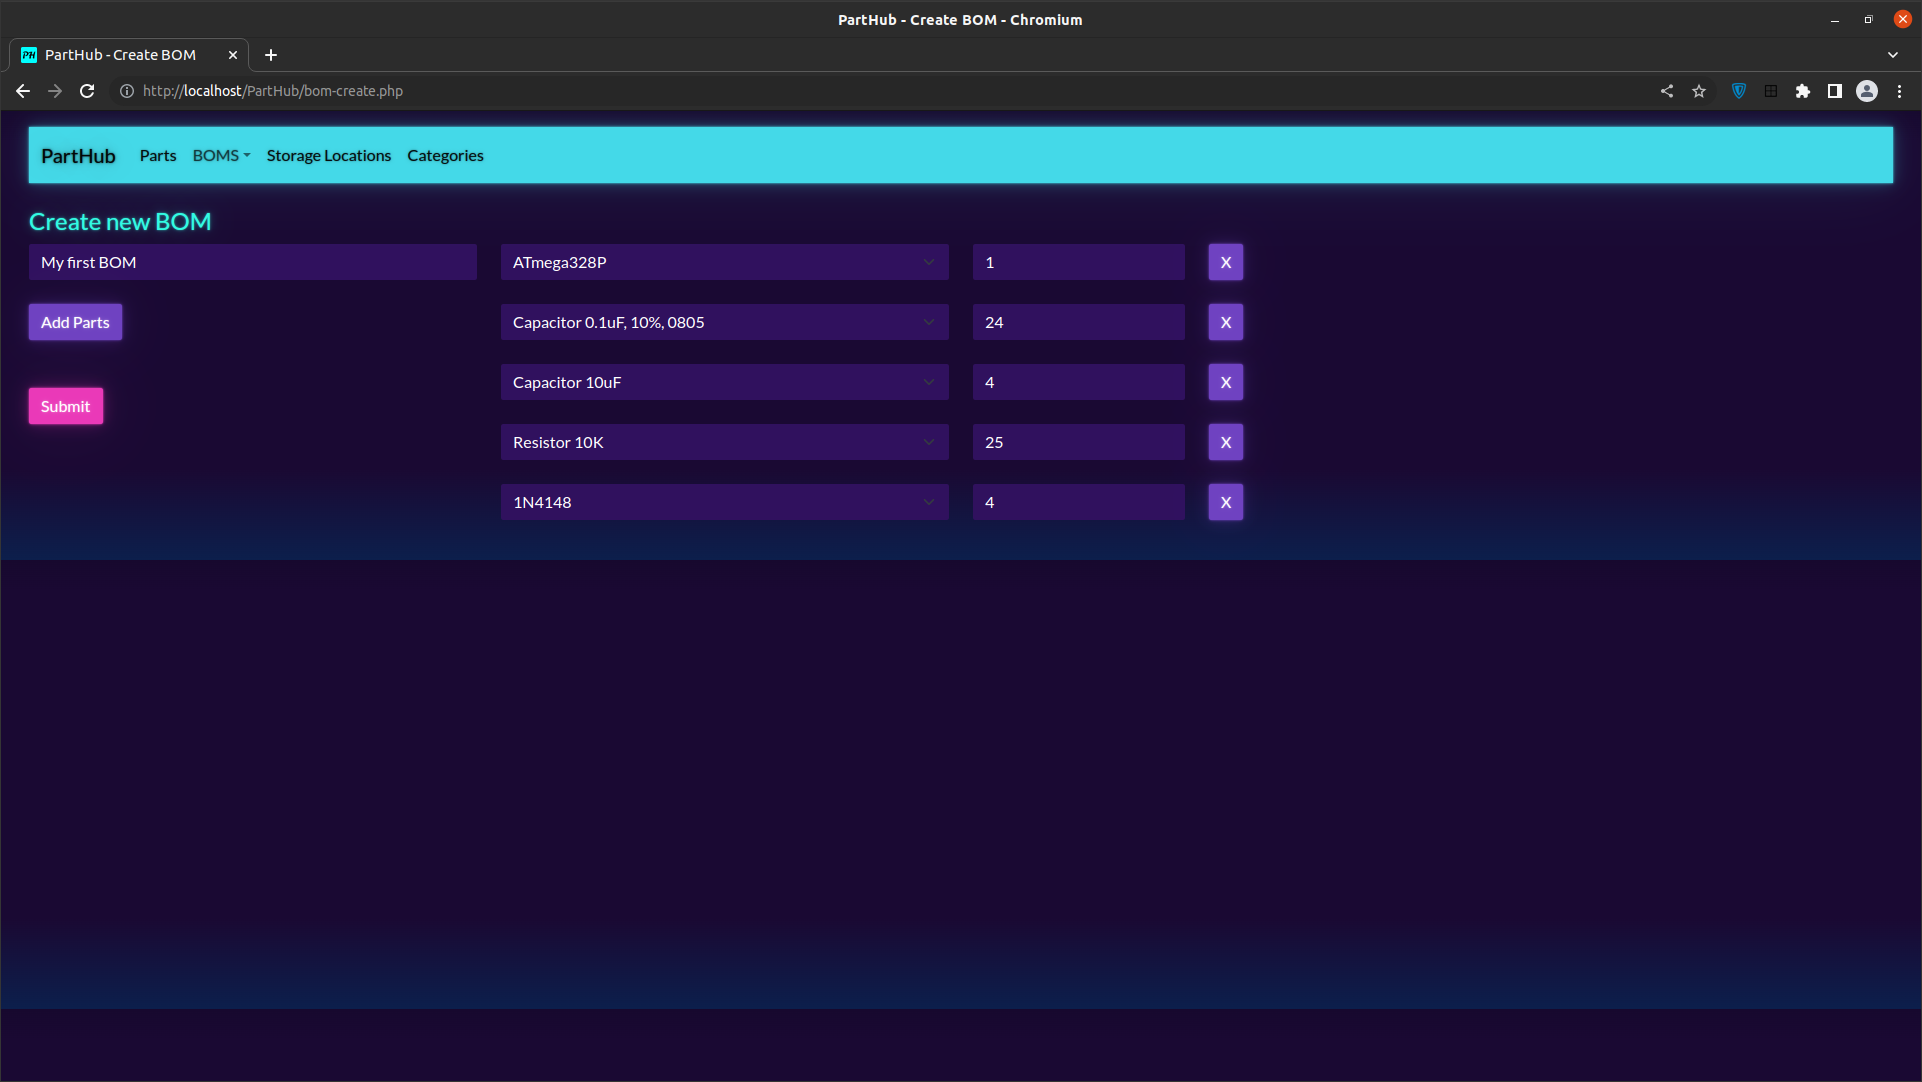
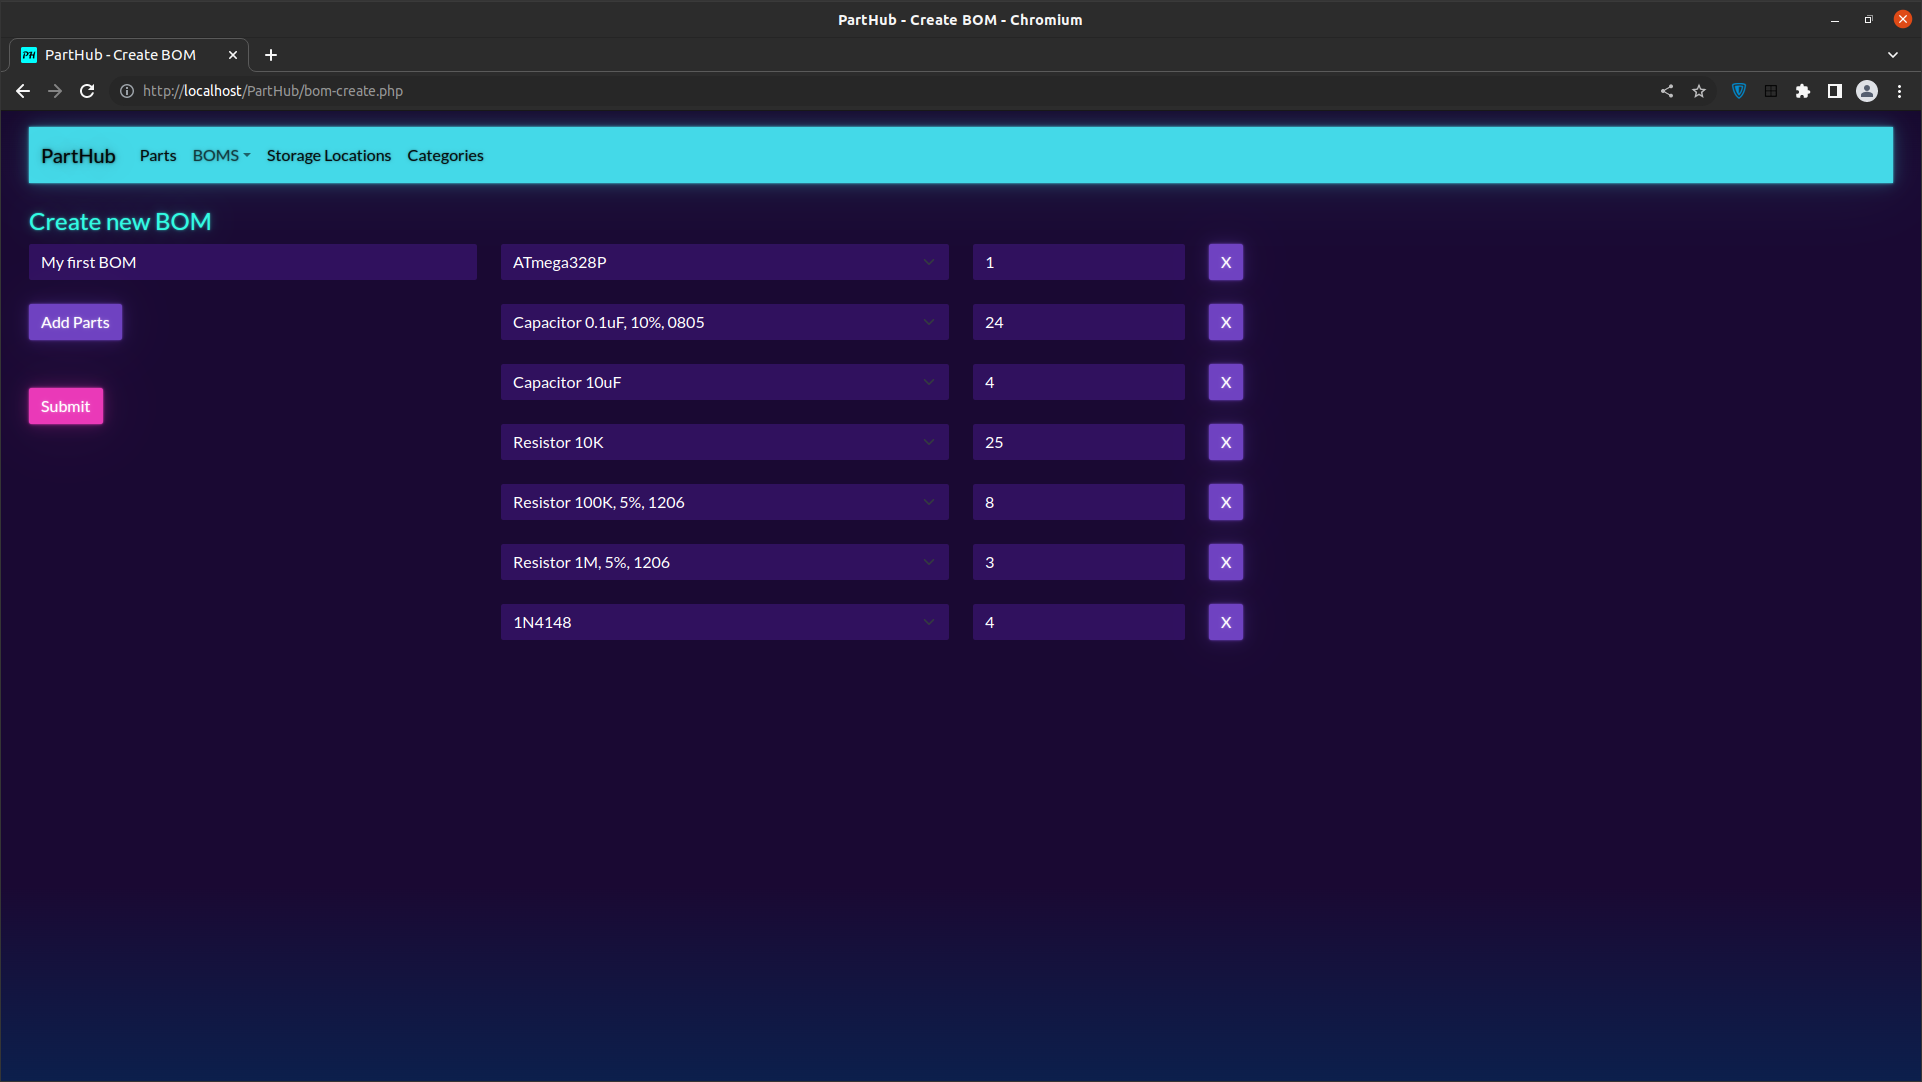
Fixed bug in viewport and updated screenshots

Changed region(s): [[0.2497, 0.4575, 0.6556, 0.61], [0.0, 0.976, 0.999, 1.0]]

diff --git a/head.html b/head.html
@@ -24,4 +24,4 @@
     <script src="https://code.jquery.com/jquery-3.6.0.min.js"></script>
 
   </head>
-  <body class="p-3 m-0 border-0">
+  <body class="p-3 m-0 border-0" style="min-height: 100vh;">

diff --git a/locations.php b/locations.php
@@ -1,0 +1,20 @@
+<?php
+  $title = 'Parts';
+  require_once('head.html');
+  include 'config/credentials.php'; 
+  include 'inline-processing.php';
+  include 'lib/SQL.php';
+  include 'lib/forms.php';
+  $table_name = "location_names";
+  
+?>
+
+<style>
+    .fixed-bottom {
+  height: 100%; /* Set the height as needed */
+}
+</style>
+<div class="container-fluid">
+<?php require_once('navbar.php');?>
+<br>
+<h4>Storage Locations</h4>

diff --git a/categories.php b/categories.php
@@ -1,0 +1,20 @@
+<?php
+  $title = 'Parts';
+  require_once('head.html');
+  include 'config/credentials.php'; 
+  include 'inline-processing.php';
+  include 'lib/SQL.php';
+  include 'lib/forms.php';
+  $table_name = "part_categories";
+  
+?>
+
+<style>
+    .fixed-bottom {
+  height: 100%; /* Set the height as needed */
+}
+</style>
+<div class="container-fluid">
+<?php require_once('navbar.php');?>
+<br>
+<h4>Categories</h4>
